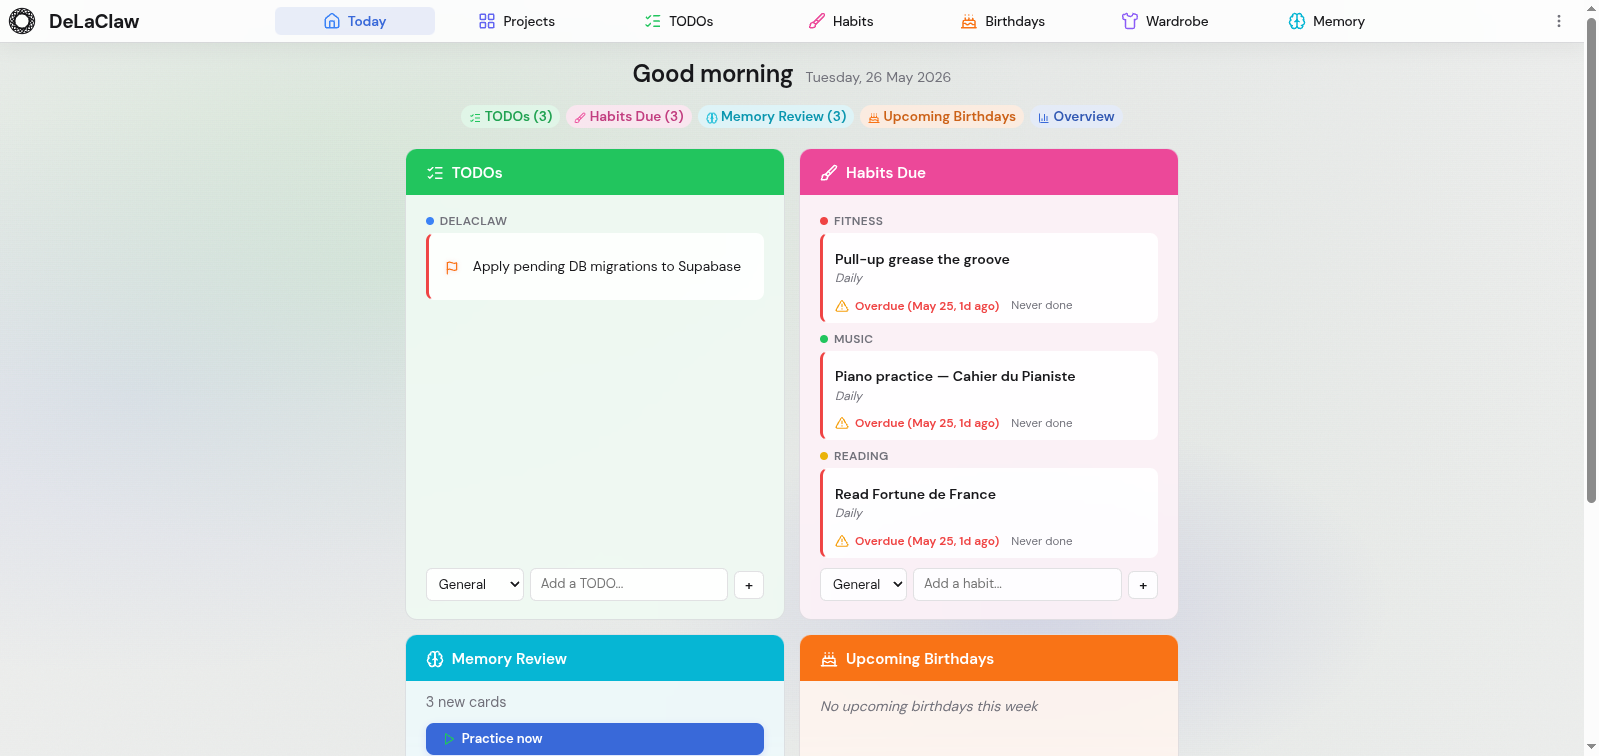
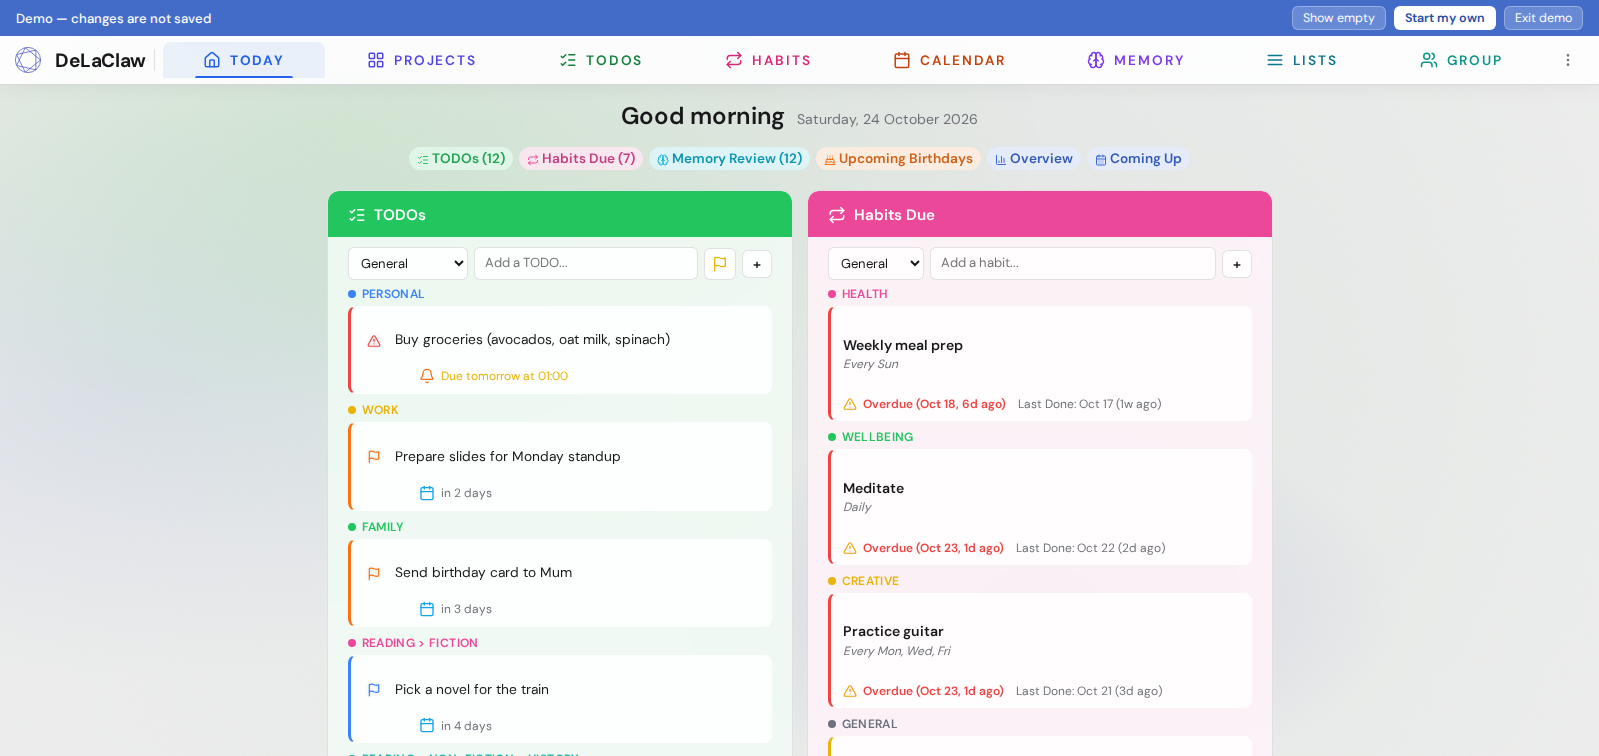
chore(release): v2.30.12
Squash of the eight post-v2.30.4 commits from live testing
(pre-squash history preserved on dev-checkpoint-v2.30.12):

- feat(calendar): day modal — overdue amounts and
  prev/next day navigation
- fix(calendar): day-modal prev/next crash (addDays takes
  a date string, not a Date)
- fix(calendar): day modal keeps its scroll position on
  same-day refresh
- fix(calendar-sync): 409-recovery PATCH hit a doubled
  /calendar/v3 URL (bug introduced in 2c13ee5)
- refactor(calendar): overdue day count extracted to
  calendar-pure, boundary tests added
- docs(readme): screenshots refreshed from production
  demo mode — Welcome hero, Calendar and TODOs in the
  Screenshots section

429 tests passed (bun and node).

Checked: versioning [x], i18n [x], docs [x], readme [x], checklist [~], tests [x], welcome [x], prompts [~], xss [x]

Changed region(s): [[0.0, 0.0, 1.0, 1.0]]

diff --git a/js/calendar.js b/js/calendar.js
@@ -13,7 +13,8 @@ import { t, getLang } from './i18n.js';
 import { getTodos, catIdForTodo, getCategoryColor, getTodoCatPath, getTodoCatOrderKey } from './todos.js';
 import { computeNextDue, isStructuredRule, normalizeFrequencyRule, catIdForHabit, getHabitCategoryColor, getHabitCatPath, getHabitCatOrderKey, isAutoHabit } from './habits.js';
 import { compareOrderKeys } from './sections-pure.js';
-import { toDateStr, getMonthGrid, expandHabitOccurrences, birthdaysInRange, toggleShow, addDays, getWeekDates, isHabitSnoozed } from './calendar-pure.js';
+import { captureInnerScrollPositions, restoreInnerScrollPositions } from './item-utils.js';
+import { toDateStr, getMonthGrid, expandHabitOccurrences, birthdaysInRange, toggleShow, addDays, getWeekDates, isHabitSnoozed, parseLocalDate, overdueDays } from './calendar-pure.js';
 
 let calYear;
 let calMonth; // 0-based
@@ -113,7 +114,7 @@ function collectRangeEvents(start, end) {
     if (!d) continue;
     const catId = catIdForTodo(td);
     const evBase = {
-      type: 'todo', id: td.id, title: td.text || '', sub: '',
+      type: 'todo', id: td.id, title: td.text || '', sub: '', dueDate: d,
       catId, catColor: getCategoryColor(catId), catName: getTodoCatPath(catId), catOrder: getTodoCatOrderKey(catId),
       shared_id: td.shared_id || null, shared_group_id: td.shared_group_id || null,
     };
@@ -558,6 +559,23 @@ function calSharedBadge(ev) {
   return sharedBadge(group?.name || '', ev.shared_group_id);
 }
 
+// Overdue rows carry the same information as the item's home bucket —
+// the due date and by how much it is overdue — not just the red border.
+// (Buckets: formatHabitDue's overdue line; TODOs use the same
+// date + days-ago composition with their own i18n keys.)
+function calOverdueSub(ev) {
+  if (!ev.overdue) return '';
+  const dueStr = ev.type === 'todo' ? ev.dueDate : ev.next_due;
+  if (!dueStr) return '';
+  const days = overdueDays(dueStr, todayStr());
+  if (days <= 0) return '';
+  const dateStr = parseLocalDate(dueStr).toLocaleDateString(getLang(), { month: 'short', day: 'numeric' });
+  const label = ev.type === 'todo'
+    ? `${t('todos.overdue')} (${dateStr}, ${t('common.days_ago', days)})`
+    : `${t('habits.overdue')} (${dateStr}, ${t('habits.days_ago', days)})`;
+  return `<span class="cal-row-sub cal-row-sub-overdue">${lucideIcon('alert-triangle', 12)} ${label}</span>`;
+}
+
 function dayPanelRow(ev, dateStr) {
   if (ev.type === 'birthday') {
     const thumb = ev.avatar
@@ -571,7 +589,7 @@ function dayPanelRow(ev, dateStr) {
   }
   if (ev.type === 'todo') {
     return `<div class="cal-row${ev.overdue ? ' cal-row-overdue' : ''}">
-      <span class="cal-row-main">${calSharedBadge(ev)}<strong>${renderMd(ev.title)}</strong></span>
+      <span class="cal-row-main">${calSharedBadge(ev)}<strong>${renderMd(ev.title)}</strong>${calOverdueSub(ev)}</span>
       <button class="todo-done-btn" data-todo-id="${esc(ev.id)}" data-action="calendar-toggle-todo"
         data-done="true" data-date="${dateStr}" title="${t('common.done')}">
         ${lucideIcon('circle-check', 18)}
@@ -585,7 +603,7 @@ function dayPanelRow(ev, dateStr) {
   // Automatic habits validate themselves — no Done button, just the badge.
   if (ev.is_auto) {
     return `<div class="cal-row${ev.overdue ? ' cal-row-overdue' : ''}">
-      <span class="cal-row-main">${calSharedBadge(ev)}<strong>${renderMd(ev.title)}</strong></span>
+      <span class="cal-row-main">${calSharedBadge(ev)}<strong>${renderMd(ev.title)}</strong>${calOverdueSub(ev)}</span>
       <span class="habit-auto-badge">${lucideIcon('zap', 12)} ${t('habits.auto_badge')}</span>
     </div>`;
   }
@@ -598,7 +616,7 @@ function dayPanelRow(ev, dateStr) {
     ? `title="${t('common.done')}"`
     : `disabled title="${esc(t('calendar.only_next_due'))}"`;
   return `<div class="cal-row${ev.overdue ? ' cal-row-overdue' : ''}">
-    <span class="cal-row-main">${calSharedBadge(ev)}<strong>${renderMd(ev.title)}</strong></span>
+    <span class="cal-row-main">${calSharedBadge(ev)}<strong>${renderMd(ev.title)}</strong>${calOverdueSub(ev)}</span>
     <button class="habit-done-btn" data-habit-id="${esc(ev.id)}" data-action="calendar-habit-done"
       data-date="${dateStr}" ${doneAttrs}>
       ${lucideIcon('circle-check', 18)}
@@ -626,6 +644,14 @@ function closeCalendarDay() {
   calPanelDate = null;
   const overlay = document.getElementById('calendarDayOverlay');
   if (overlay) overlay.remove();
+}
+
+// Prev/next day from inside the day modal: re-render the panel for the
+// adjacent date (the modal, its add menu and its rows all follow).
+function calendarDayNav(dir) {
+  if (!calPanelDate) return;
+  closeCalendarAddMenu();
+  renderCalendarDayPanel(addDays(calPanelDate, parseInt(dir, 10) || 0));
 }
 
 function dayGroupsHTML(dateStr) {
@@ -672,12 +698,19 @@ function dayGroupsHTML(dateStr) {
 function renderCalendarDayPanel(dateStr) {
   const modal = document.getElementById('calendarDayModal');
   if (!modal) return;
+  // Rebuilding via innerHTML recreates the .cal-day-list scroller at
+  // the top. On a same-day refresh (e.g. after validating an item)
+  // keep the scroll position, like the standard buckets do via the
+  // shared capture/restore; navigating to another day starts at top.
+  const scrollMap = calPanelDate === dateStr ? captureInnerScrollPositions(modal) : null;
   calPanelDate = dateStr;
   const title = fullDateStr(dateStr);
 
   modal.innerHTML = `
     <div class="cal-day-header">
+      <button class="btn" data-action="calendar-day-nav" data-dir="-1" title="${t('calendar.prev_day')}">${lucideIcon('chevron-left', 16)}</button>
       <h2>${esc(title)}</h2>
+      <button class="btn" data-action="calendar-day-nav" data-dir="1" title="${t('calendar.next_day')}">${lucideIcon('chevron-right', 16)}</button>
       <div class="calendar-add-wrap">
         <button class="btn" data-action="toggle-calendar-add" data-menu="calendarDayAddMenu"
           title="${t('common.add')}" aria-expanded="false" aria-haspopup="true">${lucideIcon('plus', 16)}</button>
@@ -690,6 +723,7 @@ function renderCalendarDayPanel(dateStr) {
     <div class="modal-actions">
       <button class="modal-cancel" data-action="close-calendar-day">${t('common.close')}</button>
     </div>`;
+  if (scrollMap) restoreInnerScrollPositions(modal, scrollMap);
 }
 
 export { renderCalendar };
@@ -717,4 +751,5 @@ window.toggleCalendarAddMenu = toggleCalendarAddMenu;
 window.closeCalendarAddMenu = closeCalendarAddMenu;
 window.openCalendarDay = openCalendarDay;
 window.closeCalendarDay = closeCalendarDay;
+window.calendarDayNav = calendarDayNav;
 window.renderCalendarDayPanel = renderCalendarDayPanel;

diff --git a/tests/tests.js b/tests/tests.js
@@ -4131,6 +4131,53 @@ test('share popover is viewport-bound with scrollable group and member lists', (
       assert(r.item.category === 'General' && !r.item.categoryIsNew, 'real "General" category must win');
     });
 
+    test('calendar day modal: overdue amounts + prev/next day navigation', () => {
+      const cal = fs.readFileSync(path.join(JS_DIR, 'calendar.js'), 'utf-8');
+      // Overdue rows show the bucket-style label (due date + days ago)
+      // via one helper rendered by every row type (todo, habit, auto).
+      assert(cal.includes('function calOverdueSub(ev)'), 'day rows must compute an overdue sub-line');
+      assert((cal.match(/calOverdueSub\(ev\)/g) || []).length >= 4, 'every day-panel row type must render the overdue sub-line');
+      assert(cal.includes("t('todos.overdue')") && cal.includes("t('habits.overdue')"), 'overdue sub-line must use the bucket i18n keys');
+      // TODO events must carry their due date (the today mirror needs it).
+      assert(cal.includes('dueDate: d'), 'todo calendar events must carry dueDate');
+      // Prev/next day navigation from the modal header.
+      assert(cal.includes('function calendarDayNav(dir)'), 'day modal must expose calendarDayNav');
+      assert(cal.includes('data-action="calendar-day-nav"'), 'day modal header must render prev/next buttons');
+      // addDays is string-based ('YYYY-MM-DD' in, string out) — the nav
+      // must pass calPanelDate straight to it, never a Date object
+      // (live-test crash Oct 24, 2026: dateStr.split is not a function).
+      assert(cal.includes('addDays(calPanelDate'), 'calendarDayNav must pass the date string to addDays');
+      assert(!cal.includes('addDays(parseLocalDate'), 'calendarDayNav must not pass a Date to addDays');
+      // Same-day refreshes (e.g. after validating an item) must keep
+      // the scroll position via the shared capture/restore, like the
+      // standard buckets — not jump to the top of .cal-day-list.
+      assert(cal.includes('captureInnerScrollPositions(modal)') && cal.includes('restoreInnerScrollPositions(modal, scrollMap)'),
+        'day panel must capture/restore scroll on same-day re-renders');
+      const iu = fs.readFileSync(path.join(JS_DIR, 'item-utils.js'), 'utf-8');
+      assert(iu.includes('.cal-day-list'), 'the shared scrollable-list selector must cover .cal-day-list');
+      const del = fs.readFileSync(path.join(JS_DIR, 'delegation.js'), 'utf-8');
+      assert(del.includes("case 'calendar-day-nav':"), 'delegation must route calendar-day-nav');
+      const i18n = fs.readFileSync(path.join(JS_DIR, 'i18n.js'), 'utf-8');
+      assert((i18n.match(/prev_day:/g) || []).length === 3 && (i18n.match(/next_day:/g) || []).length === 3,
+        'prev_day/next_day must exist in all 3 locales');
+    });
+
+    test('calendar-pure: overdueDays boundaries (yesterday / today / tomorrow)', async () => {
+      const mod = await import(pathToFileURL(path.join(JS_DIR, 'calendar-pure.js')).href);
+      assert(typeof mod.overdueDays === 'function', 'calendar-pure must export overdueDays');
+      // Boundaries for the day-modal overdue sub-line (external review,
+      // Oct 24, 2026): due yesterday counts exactly 1 — never 0 — and
+      // due today or later counts 0, i.e. no sub-line is rendered.
+      assert(mod.overdueDays('2026-10-23', '2026-10-24') === 1, 'due yesterday must be exactly 1 day overdue');
+      assert(mod.overdueDays('2026-10-24', '2026-10-24') === 0, 'due today must not count as overdue');
+      assert(mod.overdueDays('2026-10-25', '2026-10-24') === 0, 'due tomorrow must not count as overdue');
+      assert(mod.overdueDays('2026-08-28', '2026-10-23') === 56, 'long spans must count whole days (the Aug 28 live example)');
+      assert(mod.overdueDays('', '2026-10-24') === 0, 'a missing due date must not count as overdue');
+      // The modal must actually delegate to the tested function.
+      assert(jsFiles['calendar.js'].includes('overdueDays(dueStr, todayStr())'),
+        'calOverdueSub must compute the count via calendar-pure overdueDays');
+    });
+
     test('calendar-pure: month grid, habit expansion, birthdays', async () => {
       const mod = await import(pathToFileURL(path.join(JS_DIR, 'calendar-pure.js')).href);
       const { toDateStr, getMonthGrid, expandHabitOccurrences, birthdayInMonth, birthdaysInRange, toggleShow, addDays, getWeekDates } = mod;
@@ -5746,6 +5793,19 @@ test('share popover is viewport-bound with scrollable group and member lists', (
         'per-op failures must be re-queued for a later syncTable run');
       assert(/const isRetryable = \(s\) => s === 0 \|\| s === 429 \|\| s >= 500/.test(cal),
         'only unknown/rate-limited/server-error outcomes are retried — other 4xx would loop forever');
+    });
+
+    test('calendar sync 409-recovery PATCH uses a correctly composed URL', () => {
+      const cal = jsFiles['calendar-sync.js'];
+      // CALENDAR_API already ends with /calendar/v3 and calPath (the
+      // batch-part path) starts with it — concatenating the two doubles
+      // the prefix and the request dies as a CORS error (live report
+      // Oct 24, 2026). Direct fetches must compose like every other
+      // call site: base + /calendars/<id>/events/<eventId>.
+      assert(!cal.includes('${CALENDAR_API}${calPath}'),
+        'no direct fetch may concatenate CALENDAR_API with the batch calPath — the /calendar/v3 prefix doubles');
+      assert(cal.includes("`${CALENDAR_API}/calendars/${encodeURIComponent(prefs.calendarId)}/events/${encodeURIComponent(eventId)}`"),
+        'the 409-recovery PATCH must target the composed calendars/events URL');
     });
 
     test('calendar sync no longer treats status 0 as a successful delete', () => {

diff --git a/js/delegation.js b/js/delegation.js
@@ -57,7 +57,7 @@
     'show-todo-general-card': 1, 'calendar-prev': 1, 'calendar-next': 1, 'calendar-today': 1,
     'toggle-calendar-filter': 1, 'open-welcome-birthday': 1, 'set-calendar-view': 1,
     'open-calendar-picker': 1, 'pick-calendar-month': 1, 'pick-calendar-year': 1,
-    'open-calendar-day': 1, 'toggle-calendar-add': 1, 'navigate-to-list': 1,
+    'open-calendar-day': 1, 'calendar-day-nav': 1, 'toggle-calendar-add': 1, 'navigate-to-list': 1,
     'sharing-copy-code': 1, 'sharing-copy-link': 1, 'sharing-copy-member-code': 1,
     'sharing-copy-member-link': 1, 'sharing-copy-code-value': 1, 'sharing-copy-link-value': 1,
     'groups-select': 1, 'groups-back': 1, 'welcome-open-habit-history': 1,
@@ -296,6 +296,7 @@
       case 'pick-calendar-year': callWindow('pickCalendarYear', [el.dataset.year]); break;
       case 'open-calendar-day': callWindow('openCalendarDay', [el.dataset.date]); break;
       case 'close-calendar-day': callWindow('closeCalendarDay', []); break;
+      case 'calendar-day-nav': callWindow('calendarDayNav', [el.dataset.dir]); break;
       case 'toggle-calendar-add': callWindow('toggleCalendarAddMenu', [el]); break;
       case 'edit-birthday-avatar': callWindow('handleAvatarClick', [el.dataset.id]); break;
       case 'calendar-birthday-edit': callWindow('closeCalendarDay', []); callWindow('openEditBirthdayModal', [el.dataset.id]); break;

diff --git a/js/i18n.js b/js/i18n.js
@@ -421,6 +421,8 @@ const T = {
       day: 'Day', week: 'Week', month: 'Month', year: 'Year',
       week_of: 'Week of {0}',
       only_next_due: 'Only the next occurrence can be marked done',
+      prev_day: 'Previous day',
+      next_day: 'Next day',
     },
     // ── Flashcards ──
     flashcards: {
@@ -1223,6 +1225,8 @@ const T = {
       no_events: 'Rien de prévu', turns: '{0} ans',
       day: 'Jour', week: 'Semaine', month: 'Mois', year: 'Année',
       only_next_due: 'Seule la prochaine occurrence peut être validée',
+      prev_day: 'Jour précédent',
+      next_day: 'Jour suivant',
       week_of: 'Semaine du {0}',
     },
     flashcards: {
@@ -2021,6 +2025,8 @@ scope_missing: 'Permission du calendrier non accord\u00e9e. Veuillez reconnecter
       no_events: 'Nada programado', turns: 'Cumple {0}',
       day: 'Día', week: 'Semana', month: 'Mes', year: 'Año',
       only_next_due: 'Solo se puede completar la próxima ocurrencia',
+      prev_day: 'Día anterior',
+      next_day: 'Día siguiente',
       week_of: 'Semana del {0}',
     },
     flashcards: {

diff --git a/js/calendar-pure.js b/js/calendar-pure.js
@@ -73,6 +73,19 @@ export function parseLocalDate(value) {
 }
 
 /**
+ * Whole days by which a due date ('YYYY-MM-DD') is overdue relative to
+ * today ('YYYY-MM-DD'): 1 when due yesterday, 0 when due today or
+ * later. Computed on local midnights with rounding, so a 23h/25h
+ * daylight-saving day still counts as exactly one day. An invalid or
+ * missing date counts as 0 (not overdue).
+ */
+export function overdueDays(dueStr, todayStr) {
+  if (!dueStr || !todayStr) return 0;
+  const diff = Math.round((parseLocalDate(dueStr) - parseLocalDate(todayStr)) / 86400000);
+  return diff < 0 ? -diff : 0;
+}
+
+/**
  * Month grid: array of weeks; each week is 7 { date, inMonth } cells,
  * Monday-first, including leading/trailing days from adjacent months.
  * year: full year, month: 0-based.

diff --git a/js/calendar-sync.js b/js/calendar-sync.js
@@ -865,7 +865,7 @@ async function _syncTableInner(tableName) {
           const eventId = deterministicEventId(meta.id);
           if (eventId && meta.event) {
             try {
-              const patchResp = await fetch(`${CALENDAR_API}${calPath}/events/${encodeURIComponent(eventId)}`, {
+              const patchResp = await fetch(`${CALENDAR_API}/calendars/${encodeURIComponent(prefs.calendarId)}/events/${encodeURIComponent(eventId)}`, {
                 method: 'PATCH',
                 headers: { 'Authorization': `Bearer ${token}`, 'Content-Type': 'application/json' },
                 body: JSON.stringify(meta.event),

diff --git a/js/item-utils.js b/js/item-utils.js
@@ -596,7 +596,7 @@ export async function bulkSortOrder(tableName, updates) {
 // todo-cat-list, list-item-list, birthday-bucket-list)
 // lose their scrollTop. Capture before innerHTML, restore after.
 
-const SCROLLABLE_LIST_SELECTOR = '.task-list, .todo-cat-list, .list-item-list, .birthday-bucket-list, .welcome-items';
+const SCROLLABLE_LIST_SELECTOR = '.task-list, .todo-cat-list, .list-item-list, .birthday-bucket-list, .welcome-items, .cal-day-list';
 
 function scrollContainerKey(el) {
   if (el.id) return 'id:' + el.id;

diff --git a/style.css b/style.css
@@ -2445,6 +2445,7 @@ button.cal-row { cursor: pointer; }
   white-space: nowrap;
 }
 .cal-row-sub { font-size: 0.75rem; color: var(--muted); }
+.cal-row-sub-overdue { color: var(--red); font-weight: 500; }
 .cal-row-avatar {
   width: 34px;
   height: 34px;

diff --git a/sw.js b/sw.js
@@ -1,6 +1,6 @@
 // Service Worker for DeLaClaw (PWA)
 // CACHE_VERSION is updated by the pre-commit hook from VERSION file
-const CACHE_VERSION = 'dlc-2.30.4';
+const CACHE_VERSION = 'dlc-2.30.12';
 
 
 const PRECACHE_URLS = [

diff --git a/js/version.js b/js/version.js
@@ -1,2 +1,2 @@
 // Auto-generated by pre-commit hook from VERSION — do not edit manually
-export const APP_VERSION = '2.30.4';
+export const APP_VERSION = '2.30.12';

diff --git a/.agents/CODEMAP.md b/.agents/CODEMAP.md
@@ -1,6 +1,6 @@
 # DeLaClaw CODEMAP — T2 enriched
 
-> Generated 2026-10-23T22:40:29.978Z from 50 modules (v2.30.4). Total LOC 36197. Do not hand-edit.
+> Generated 2026-10-24T01:08:29.438Z from 50 modules (v2.30.12). Total LOC 36252. Do not hand-edit.
 > Source: `scripts/generate-codemap.js`
 
 ## How to use (AI agents)
@@ -28,23 +28,23 @@
 |--------|-----|--------|---------|------------|-------|
 | main | 3960 | daily_visits,projects,settings | ./migrations/version-compare,agents-ui,backend-logos,birthdays | - | esc:8,guard+pendingSet,window:8 |
 | sharing-drive | 2525 | groups | drive-folders,i18n,sharing-envelope,sharing-file-reconcile | main.js,sharing.js | - |
-| i18n | 2466 | - |  | agents-ui.js,birthdays.js,calendar-sync.js,calendar.js | pendingSet |
+| i18n | 2472 | - |  | agents-ui.js,birthdays.js,calendar-sync.js,calendar.js | pendingSet |
 | drive | 1561 | - | ../migrations/drive-migrations.js,../migrations/version-compare.js,./../migrations/drive-migrations,./../migrations/version-compare | - | pendingSet |
 | item-utils | 1358 | - | db,i18n,icons,state | agents-ui.js,batch-import.js,birthdays.js,calendar-sync.js | - |
 | sharing-ui | 1235 | habit_categories,habit_completions,habits,list_items,todo_categories,todos | backend-logos,i18n,icons,sharing-envelope | calendar.js,groups.js,habits.js,lists.js | esc:38,guard+pendingSet,window:8 |
 | calendar-sync | 1203 | birthdays,gcal_sync,habits,settings,todos | calendar-pure,drive-folders,habits,i18n | main.js | - |
 | utils | 1001 | flashcards,x | i18n,icons,sections-pure,state | - | esc:7,window:6 |
-| calendar | 721 | - | calendar-pure,habits,i18n,icons | main.js | esc:18,window:8 |
+| calendar | 756 | - | calendar-pure,habits,i18n,icons | main.js | esc:18,window:8 |
 | batch-import | 559 | - | icons,import-pure,state,utils | - | esc:13 |
-| delegation | 512 | - |  | - | window:1 |
+| delegation | 513 | - |  | - | window:1 |
 | hero | 473 | - | logo,storm3d | main.js | - |
 | demo-chooser | 464 | - | habits,i18n,icons,utils | - | - |
 | offline-cache | 439 | - | ./i18n,./state,i18n.js,state.js | drive.js,main.js,sharing.js | - |
 | sections-pure | 412 | - |  | calendar.js,habits.js,lists.js,todos.js | - |
 | demo | 310 | x |  | drive.js | - |
 | logo | 257 | - |  | flashcards.js,hero.js,main.js | - |
+| calendar-pure | 241 | - |  | calendar-sync.js,calendar.js,frequency-rule.js,habits.js | - |
 | frequency-rule | 231 | - | calendar-pure | habit-import.js,habits.js | - |
-| calendar-pure | 228 | - |  | calendar-sync.js,calendar.js,frequency-rule.js,habits.js | - |
 | sharing-file-reconcile | 217 | - |  | drive.js,sharing-drive.js | - |
 | scene-parse | 215 | text_line_progress,texts |  | flashcards.js | - |
 | groups | 214 | - | i18n,icons,sharing-ui,state | main.js | esc:3,window:4 |

diff --git a/README.md b/README.md
@@ -41,7 +41,11 @@ DeLaClaw is a single-page productivity dashboard that runs entirely in the brows
 ## Screenshots
 
 <p align="center">
-  <img src="screenshots/projects.png" alt="Project boards" width="720">
+  <img src="screenshots/calendar.png" alt="Calendar month view" width="720">
+</p>
+
+<p align="center">
+  <img src="screenshots/todos.png" alt="TODOs" width="720">
 </p>
 
 ## Quick start
